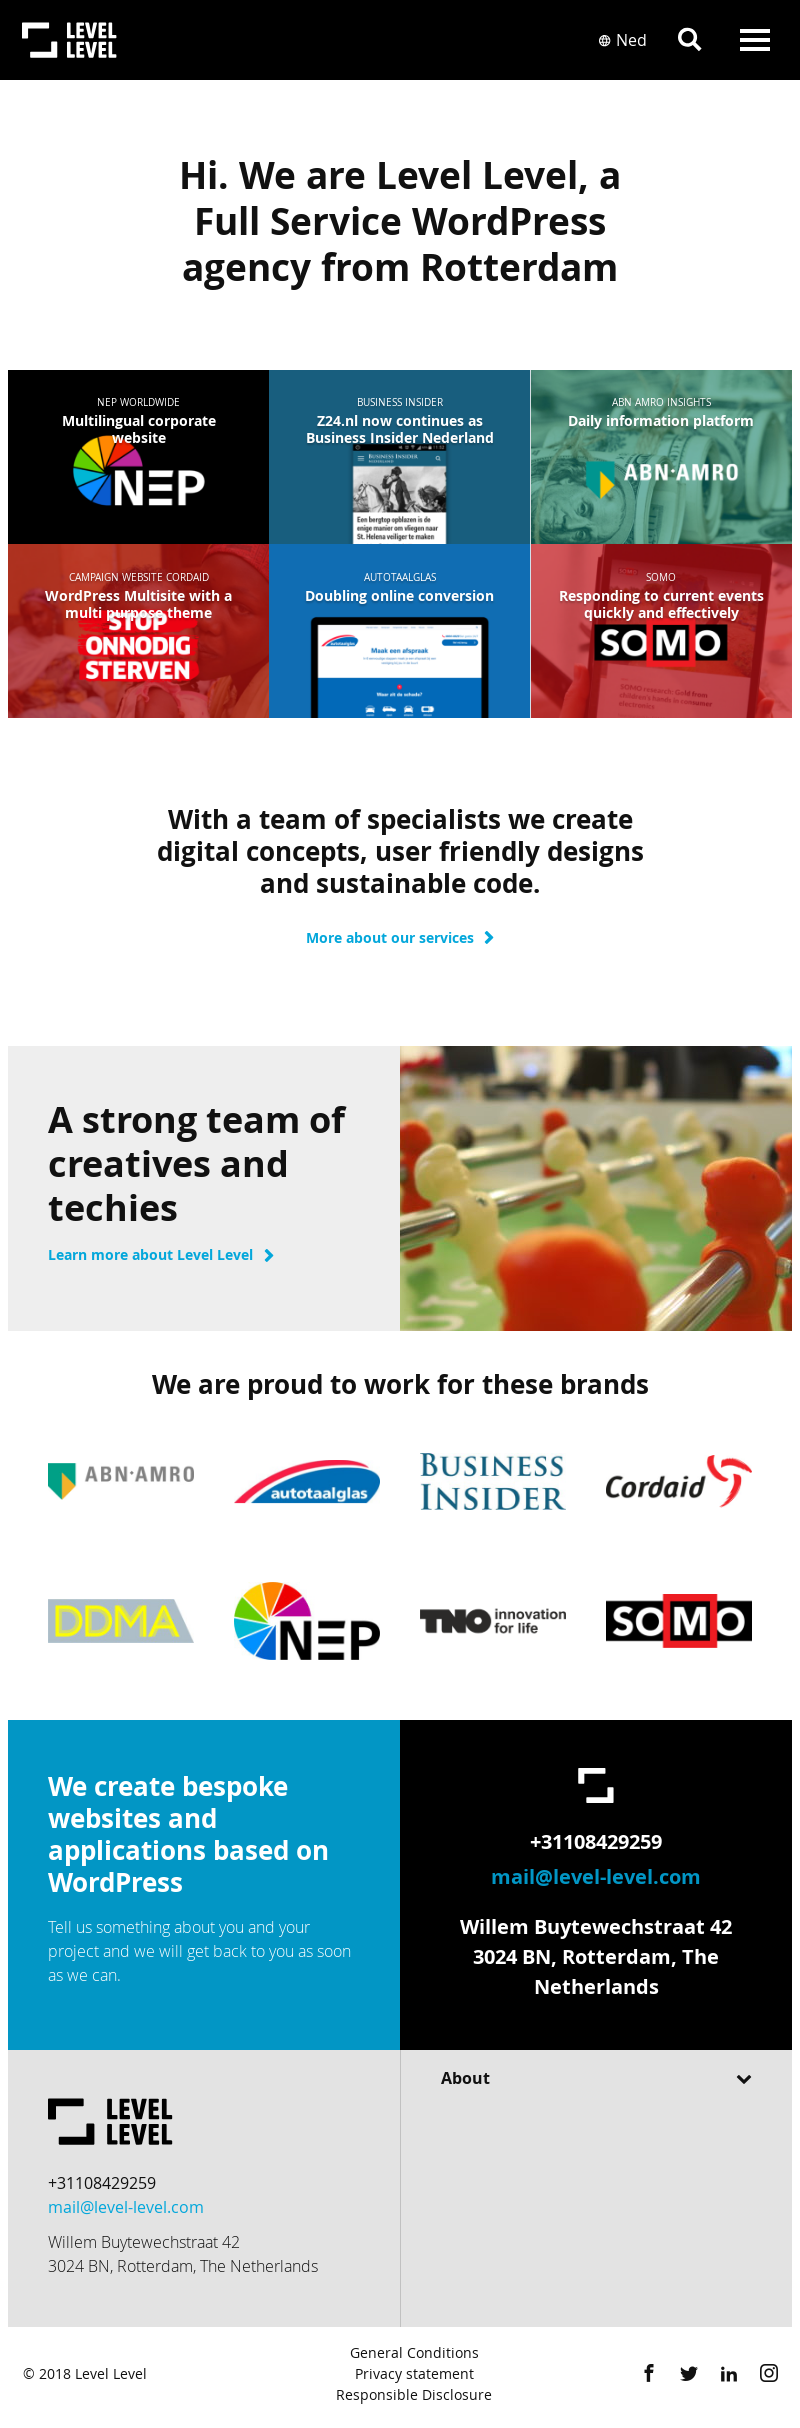
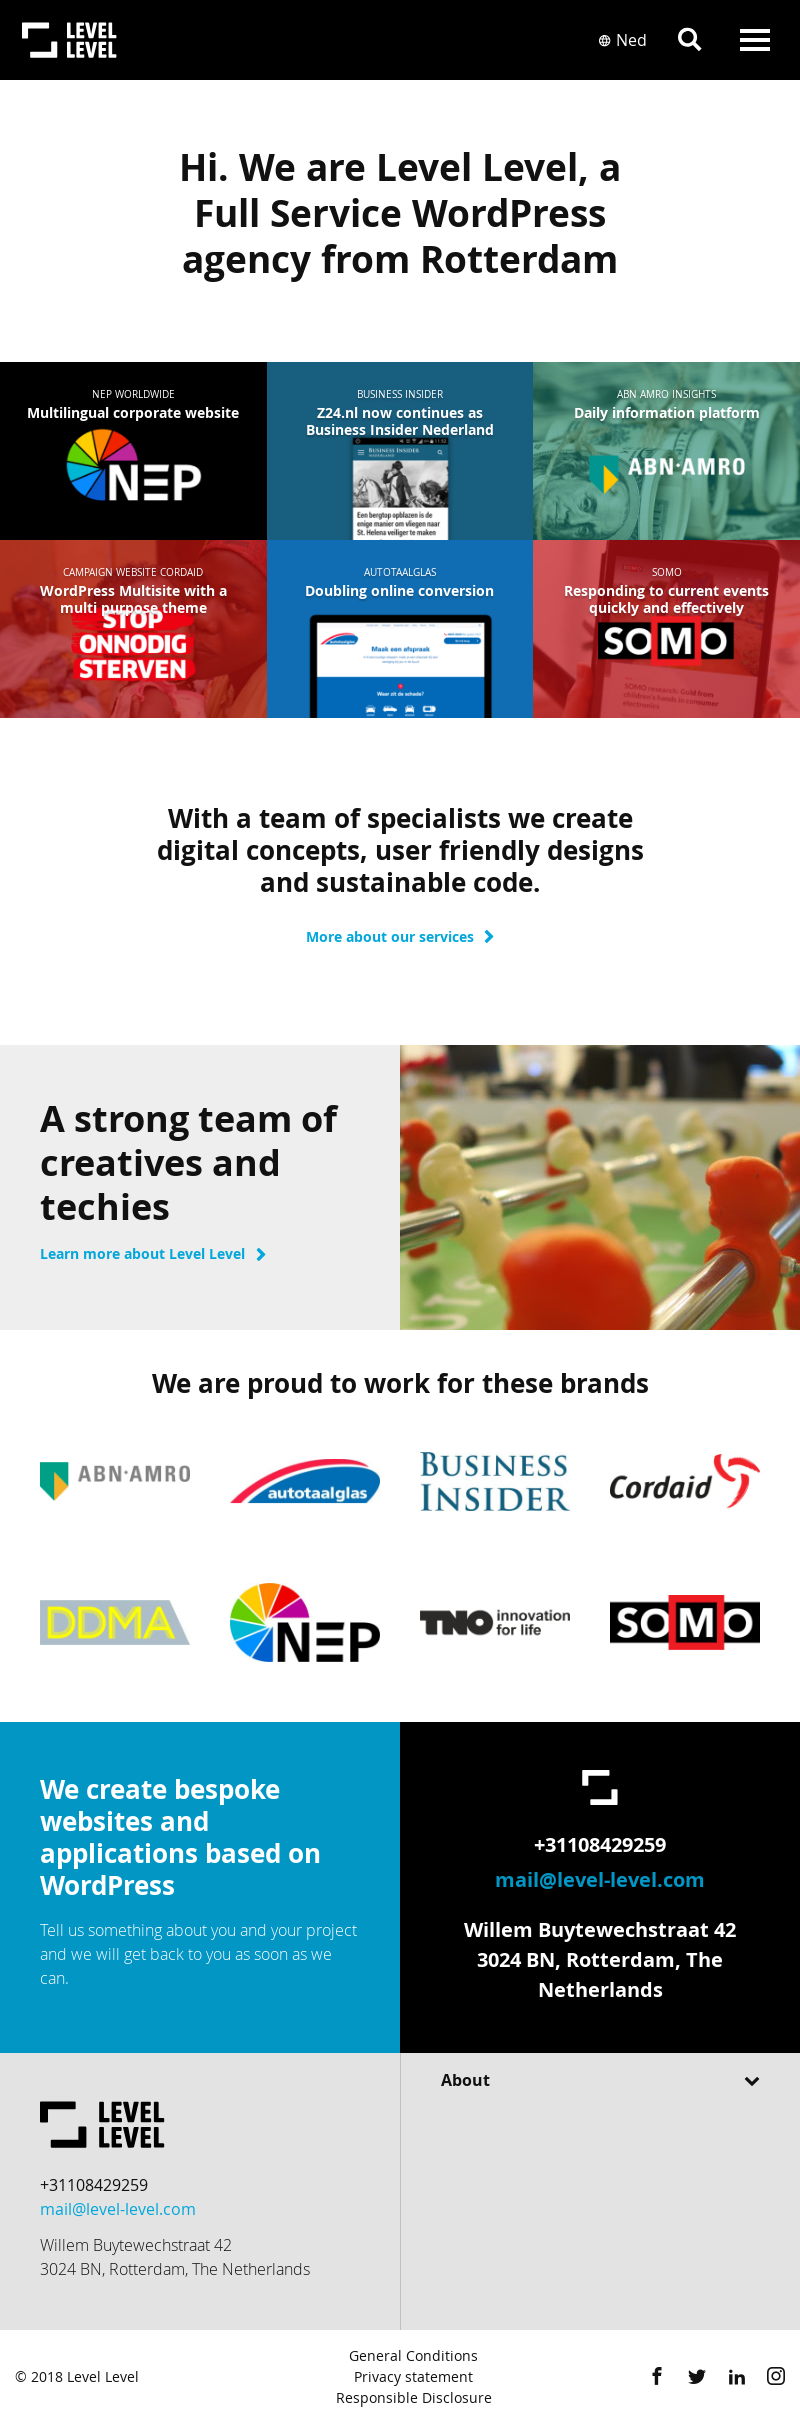
added hulp page

diff --git a/public/css/style-purified.css b/public/css/style-purified.css
@@ -233,7 +233,7 @@ nav .nav-item {
   margin-left: 14px;
   margin-right: 10px;
   width: 43%;
-  border-radius: 10px;
+  border-radius: 50px;
 }
 
 .btn-primary {
@@ -907,4 +907,33 @@ p {
 
 .wrapper-404 main {
   height: 100%;
+}
+
+.nav-tabs .nav-item.show .nav-link, .nav-tabs .nav-link.active {
+  color: #000;
+}
+
+.contact {
+  display: flex;
+}
+
+.contact p {
+  margin-right: 50px;
+}
+
+.contact-image {
+  width: 400px;
+}
+
+img {
+  width: 400px;
+}
+
+.text-contact ul li {
+  list-style-type: none;
+}
+
+.text-contact ul  {
+  padding: 0px;
+  font-size: 20px;
 }
